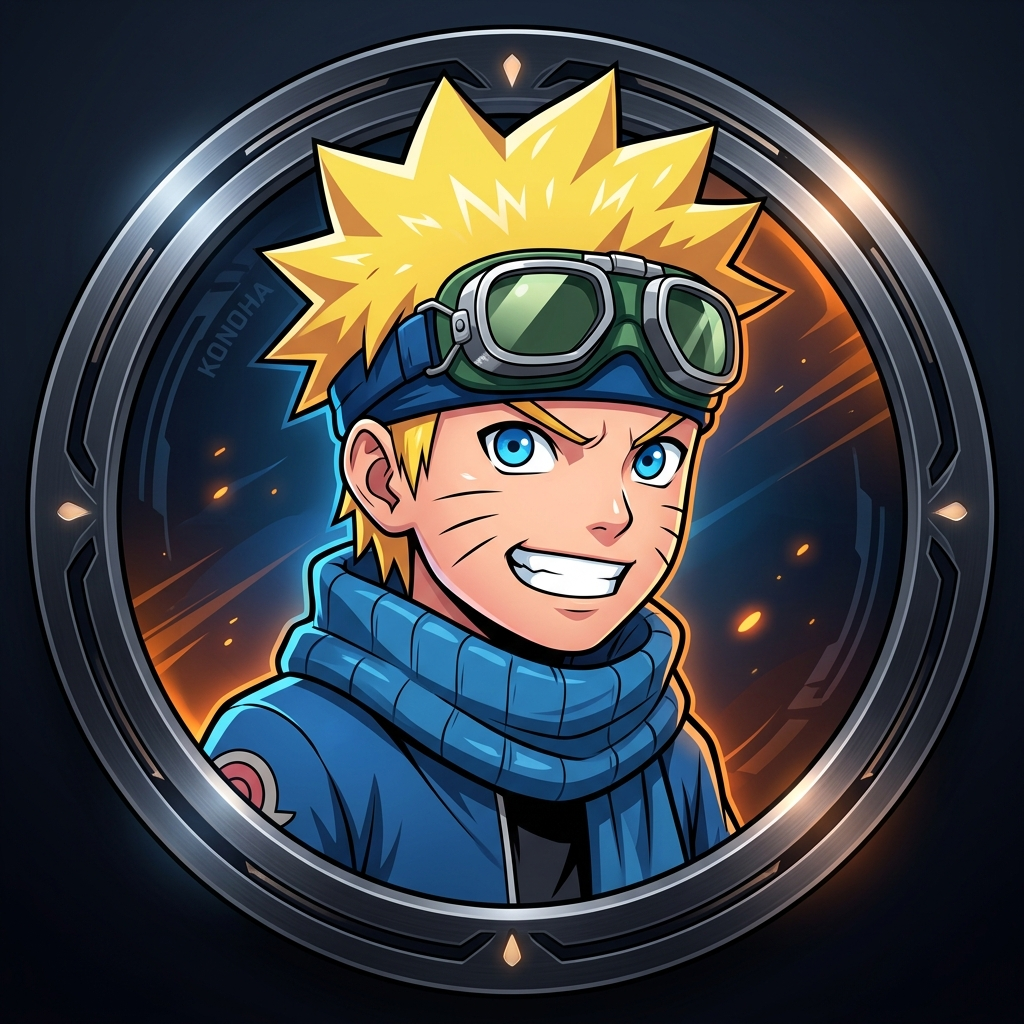
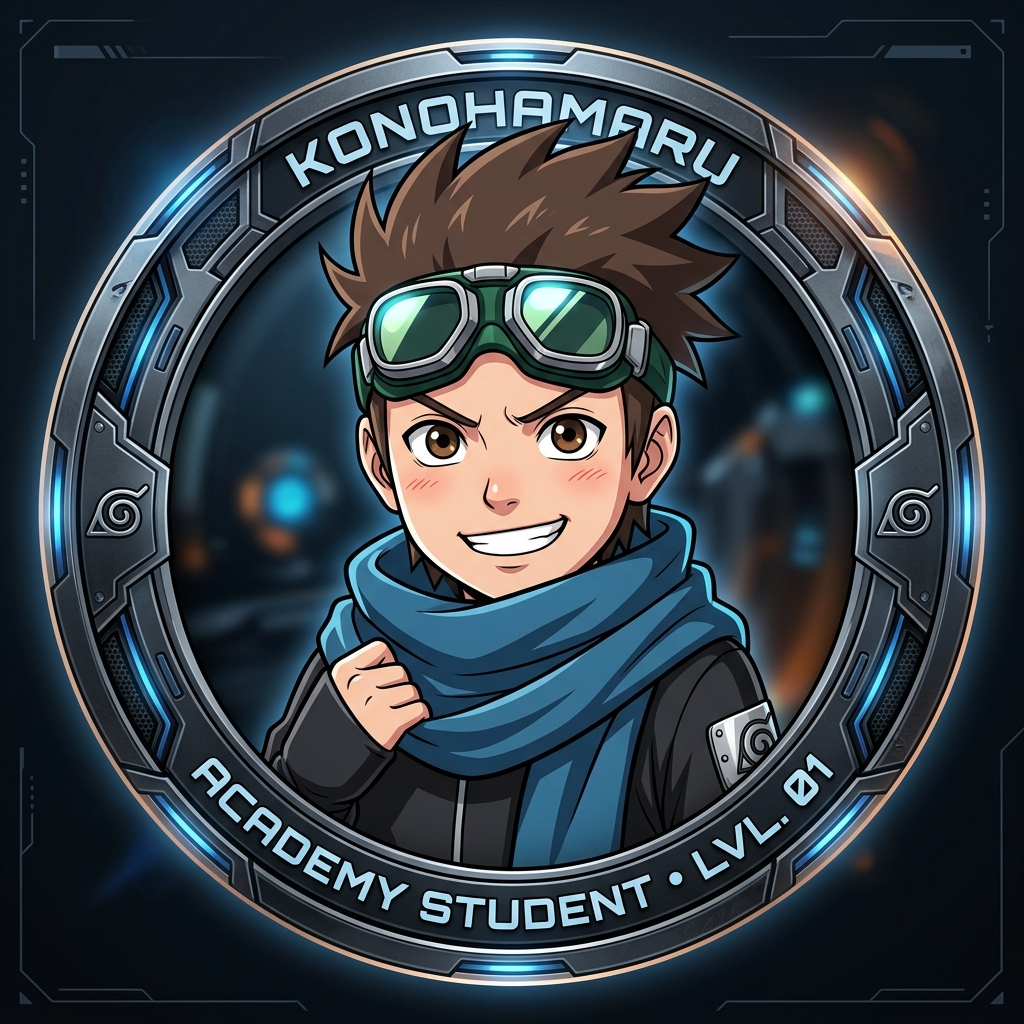
feat: align Academy to Konohamaru and Genin to Naruto Uzumaki

diff --git a/lib/ranks.ts b/lib/ranks.ts
@@ -20,10 +20,10 @@ export interface RankMeta {
 export const RANK_METAS: Record<string, RankMeta> = {
   Academy: {
     rank: "Academy",
-    character: "Naruto Uzumaki",
-    characterTitle: "Academy Initiate",
-    title: "Academy Student",
-    tagline: "The journey of 1,000 algorithms begins with a single submit.",
+    character: "Konohamaru Sarutobi",
+    characterTitle: "Academy Student",
+    title: "Academy Initiate",
+    tagline: "Starting from scratch. Dreaming of becoming Hokage one day.",
     minXp: 0,
     nextXp: 150,
     image: "/ranks/academy.jpg",
@@ -35,18 +35,18 @@ export const RANK_METAS: Record<string, RankMeta> = {
   },
   Genin: {
     rank: "Genin",
-    character: "Sasuke Uchiha",
-    characterTitle: "Genin Operative",
+    character: "Naruto Uzumaki",
+    characterTitle: "Genin Rookie (Team 7)",
     title: "Genin Shinobi",
-    tagline: "Mastering Arrays, Two Pointers & Basic Data Structures.",
+    tagline: "Wearing the Leaf headband. Ready to grind arrays and loops until midnight.",
     minXp: 150,
     nextXp: 600,
     image: "/ranks/genin.jpg",
-    badgeColor: "bg-blue-500/10 text-blue-400 border-blue-500/30",
-    textColor: "text-blue-400",
-    glowColor: "rgba(96, 165, 250, 0.35)",
-    borderColor: "border-blue-500/30",
-    accentBg: "from-blue-500/15 via-surface-card to-surface-card",
+    badgeColor: "bg-orange-500/10 text-orange-400 border-orange-500/30",
+    textColor: "text-orange-400",
+    glowColor: "rgba(249, 115, 22, 0.35)",
+    borderColor: "border-orange-500/30",
+    accentBg: "from-orange-500/15 via-surface-card to-surface-card",
   },
   Chunin: {
     rank: "Chunin",

diff --git a/lib/__tests__/scoring.test.ts b/lib/__tests__/scoring.test.ts
@@ -75,8 +75,8 @@ describe("ranks + xp", () => {
     expect(pKage.nextRank).toBeNull();
   });
   it("getRankMeta associates authentic anime character lore", () => {
-    expect(getRankMeta("Academy").character).toBe("Naruto Uzumaki");
-    expect(getRankMeta("Genin").character).toBe("Sasuke Uchiha");
+    expect(getRankMeta("Academy").character).toBe("Konohamaru Sarutobi");
+    expect(getRankMeta("Genin").character).toBe("Naruto Uzumaki");
     expect(getRankMeta("Chunin").character).toBe("Shikamaru Nara");
     expect(getRankMeta("Jonin").character).toBe("Kakashi Hatake");
     expect(getRankMeta("ANBU").character).toBe("Itachi Uchiha");
